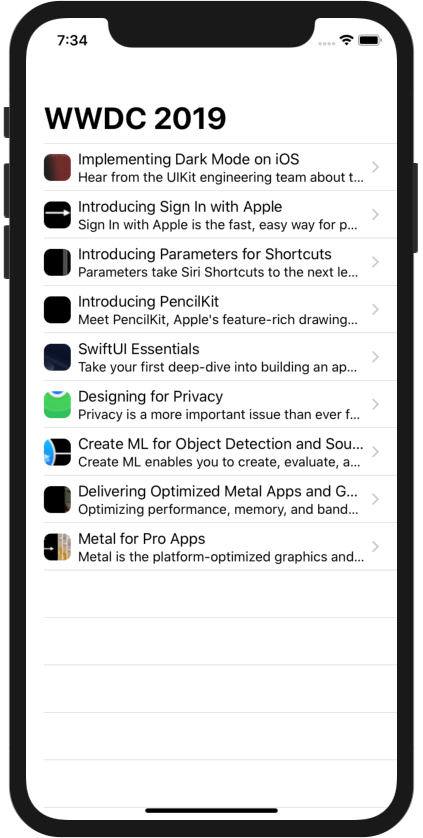
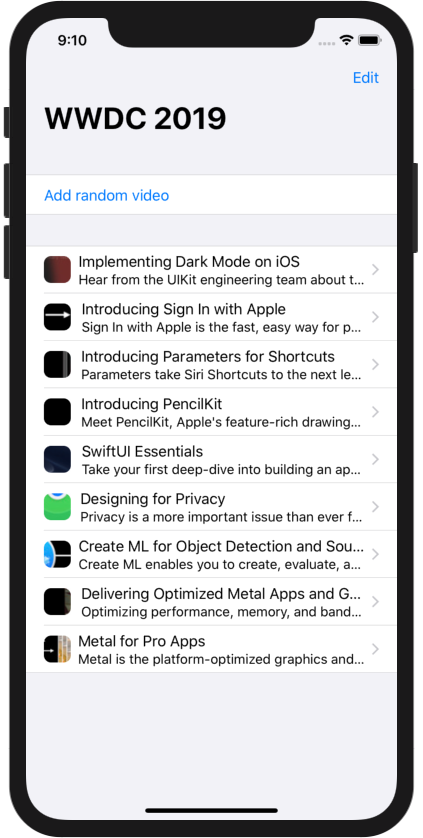
Add editing and details interaction

diff --git a/SwiftUI by Examples/SwiftUI by Examples/ListView.swift b/SwiftUI by Examples/SwiftUI by Examples/ListView.swift
@@ -7,34 +7,49 @@
 //
 
 import SwiftUI
+import Combine
 
 struct ListView: View {
 
     @State var showingAlert = false
 
+    @ObjectBinding var store: VideoStore = .init()
+
     var body: some View {
         NavigationView {
-            List(Video.all.identified(by: \.title)) { animal in
-                AnimalCell(video: animal)
+            List {
+                Section {
+                    Button(action: addRandomVideo) {
+                        Text("Add random video")
+                    }
+                }
+                Section {
+                    ForEach(store.videos) { video in
+                        VideoCell(video: video)
+                        }
+                        .onDelete(perform: delete)
+                }
                 }
                 .navigationBarTitle(Text("WWDC 2019"))
-                .navigationBarItems(trailing:
-                    Button(action: {
-                        self.showingAlert = true
-                    }) {
-                        Image(systemName: "info.circle")
-                    }
-                    .presentation($showingAlert) {
-                        Alert(title: Text("WWDC 2019"),
-                                message: Text("Tap on video to see detail information"),
-                                dismissButton: .default(Text("Got it!")))
-                    }
-            )
+                .navigationBarItems(trailing: EditButton())
+                .listStyle(.grouped)
+        }
+    }
+
+    func addRandomVideo() {
+        if let video = store.videos.randomElement() {
+            store.videos.append(video)
+        }
+    }
+
+    func delete(at offsets: IndexSet) {
+        for offset in offsets {
+            store.videos.remove(at: offset)
         }
     }
 }
 
-struct AnimalCell: View {
+struct VideoCell: View {
 
     let video: Video
 
@@ -48,7 +63,8 @@ struct AnimalCell: View {
                     Text(video.title)
                     Text(video.description)
                         .font(.subheadline)
-                }
+                    }
+                    .frame(minWidth: 0, maxWidth: .infinity, minHeight: 0, maxHeight: .infinity)
             }
         }
     }

diff --git a/SwiftUI by Examples/SwiftUI by Examples/DetailsView.swift b/SwiftUI by Examples/SwiftUI by Examples/DetailsView.swift
@@ -10,11 +10,26 @@ import SwiftUI
 
 struct DetailsView: View {
 
+    @State private var zoomed = false
+
     let video: Video
 
     var body: some View {
-        Image(video.thumbnail)
-            .navigationBarTitle(Text(video.title), displayMode: .inline)
+        VStack {
+            Image(video.thumbnail)
+                .resizable()
+                .aspectRatio(contentMode: zoomed ? .fill : .fit)
+                .tapAction {
+                    withAnimation {
+                        self.zoomed.toggle()
+                    }
+                }
+                .navigationBarTitle(Text(video.title), displayMode: .inline)
+            Text("Overview")
+                .font(.title)
+            Text(video.description)
+                .lineLimit(0)
+        }
     }
 }
 

diff --git a/SwiftUI by Examples/SwiftUI by Examples/Video.swift b/SwiftUI by Examples/SwiftUI by Examples/Video.swift
@@ -6,8 +6,23 @@
 //  Copyright © 2019 Artem Novichkov. All rights reserved.
 //
 
-struct Video {
+import SwiftUI
+import Combine
 
+class VideoStore: BindableObject {
+
+    var videos: [Video] = Video.all {
+        didSet {
+            didChange.send(())
+        }
+    }
+
+    var didChange = PassthroughSubject<Void, Never>()
+}
+
+struct Video: Identifiable {
+
+    let id = UUID()
     let title: String
     let description: String
     let thumbnail: String
